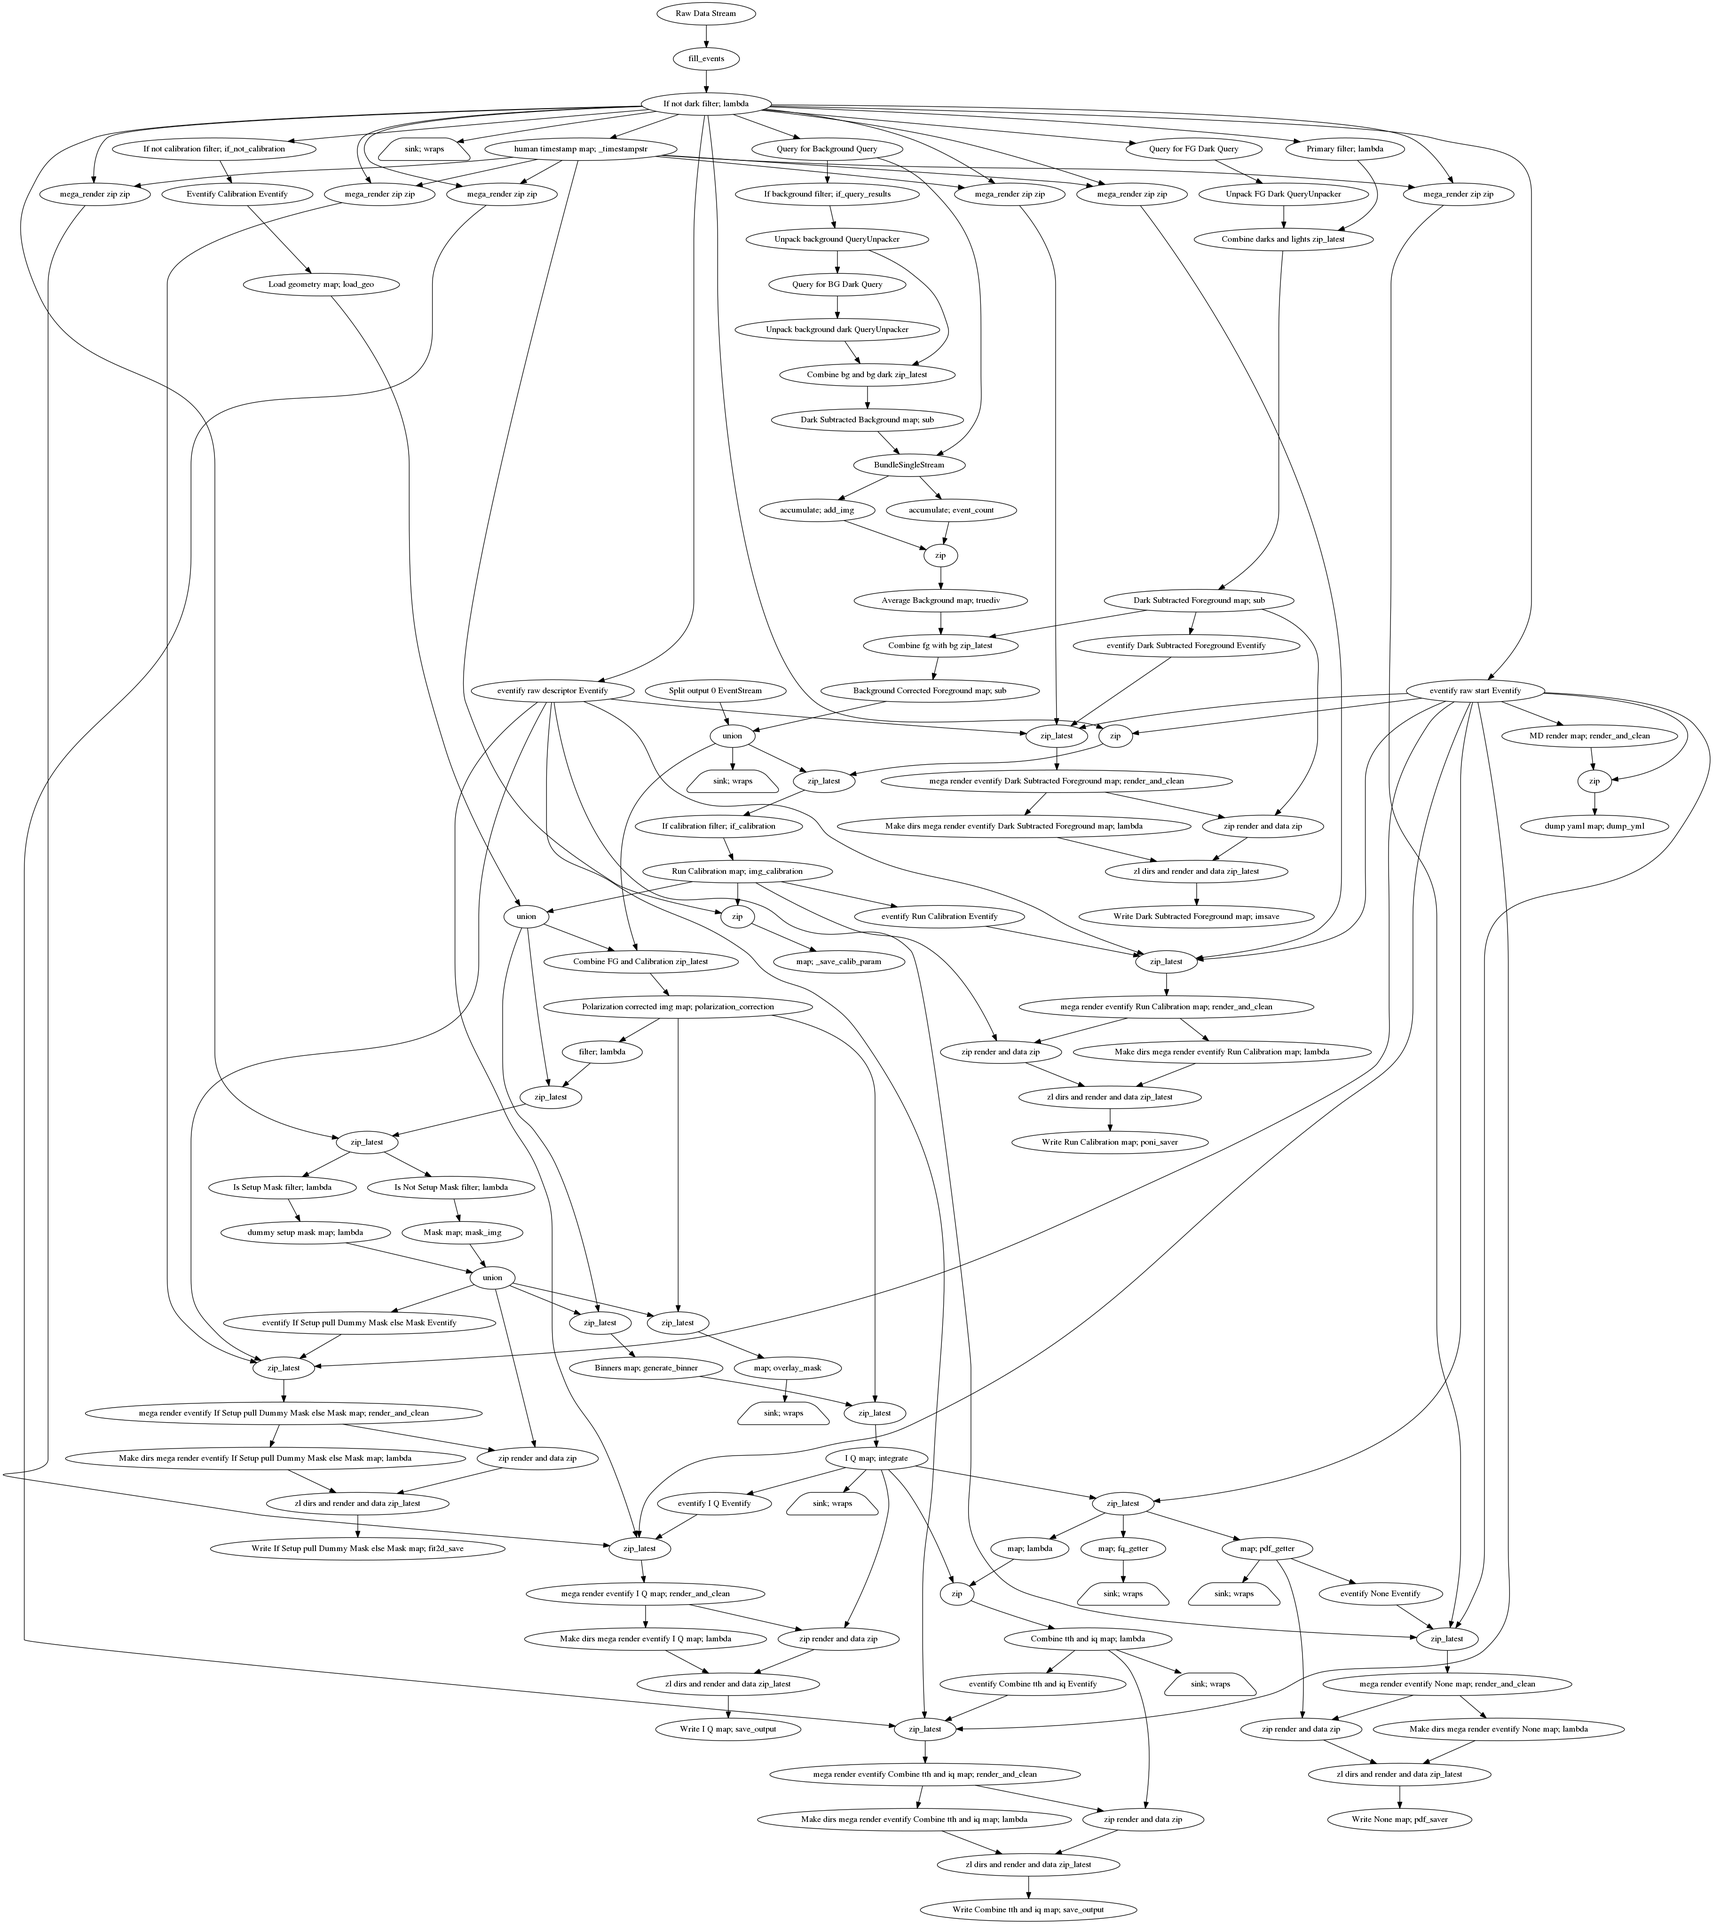
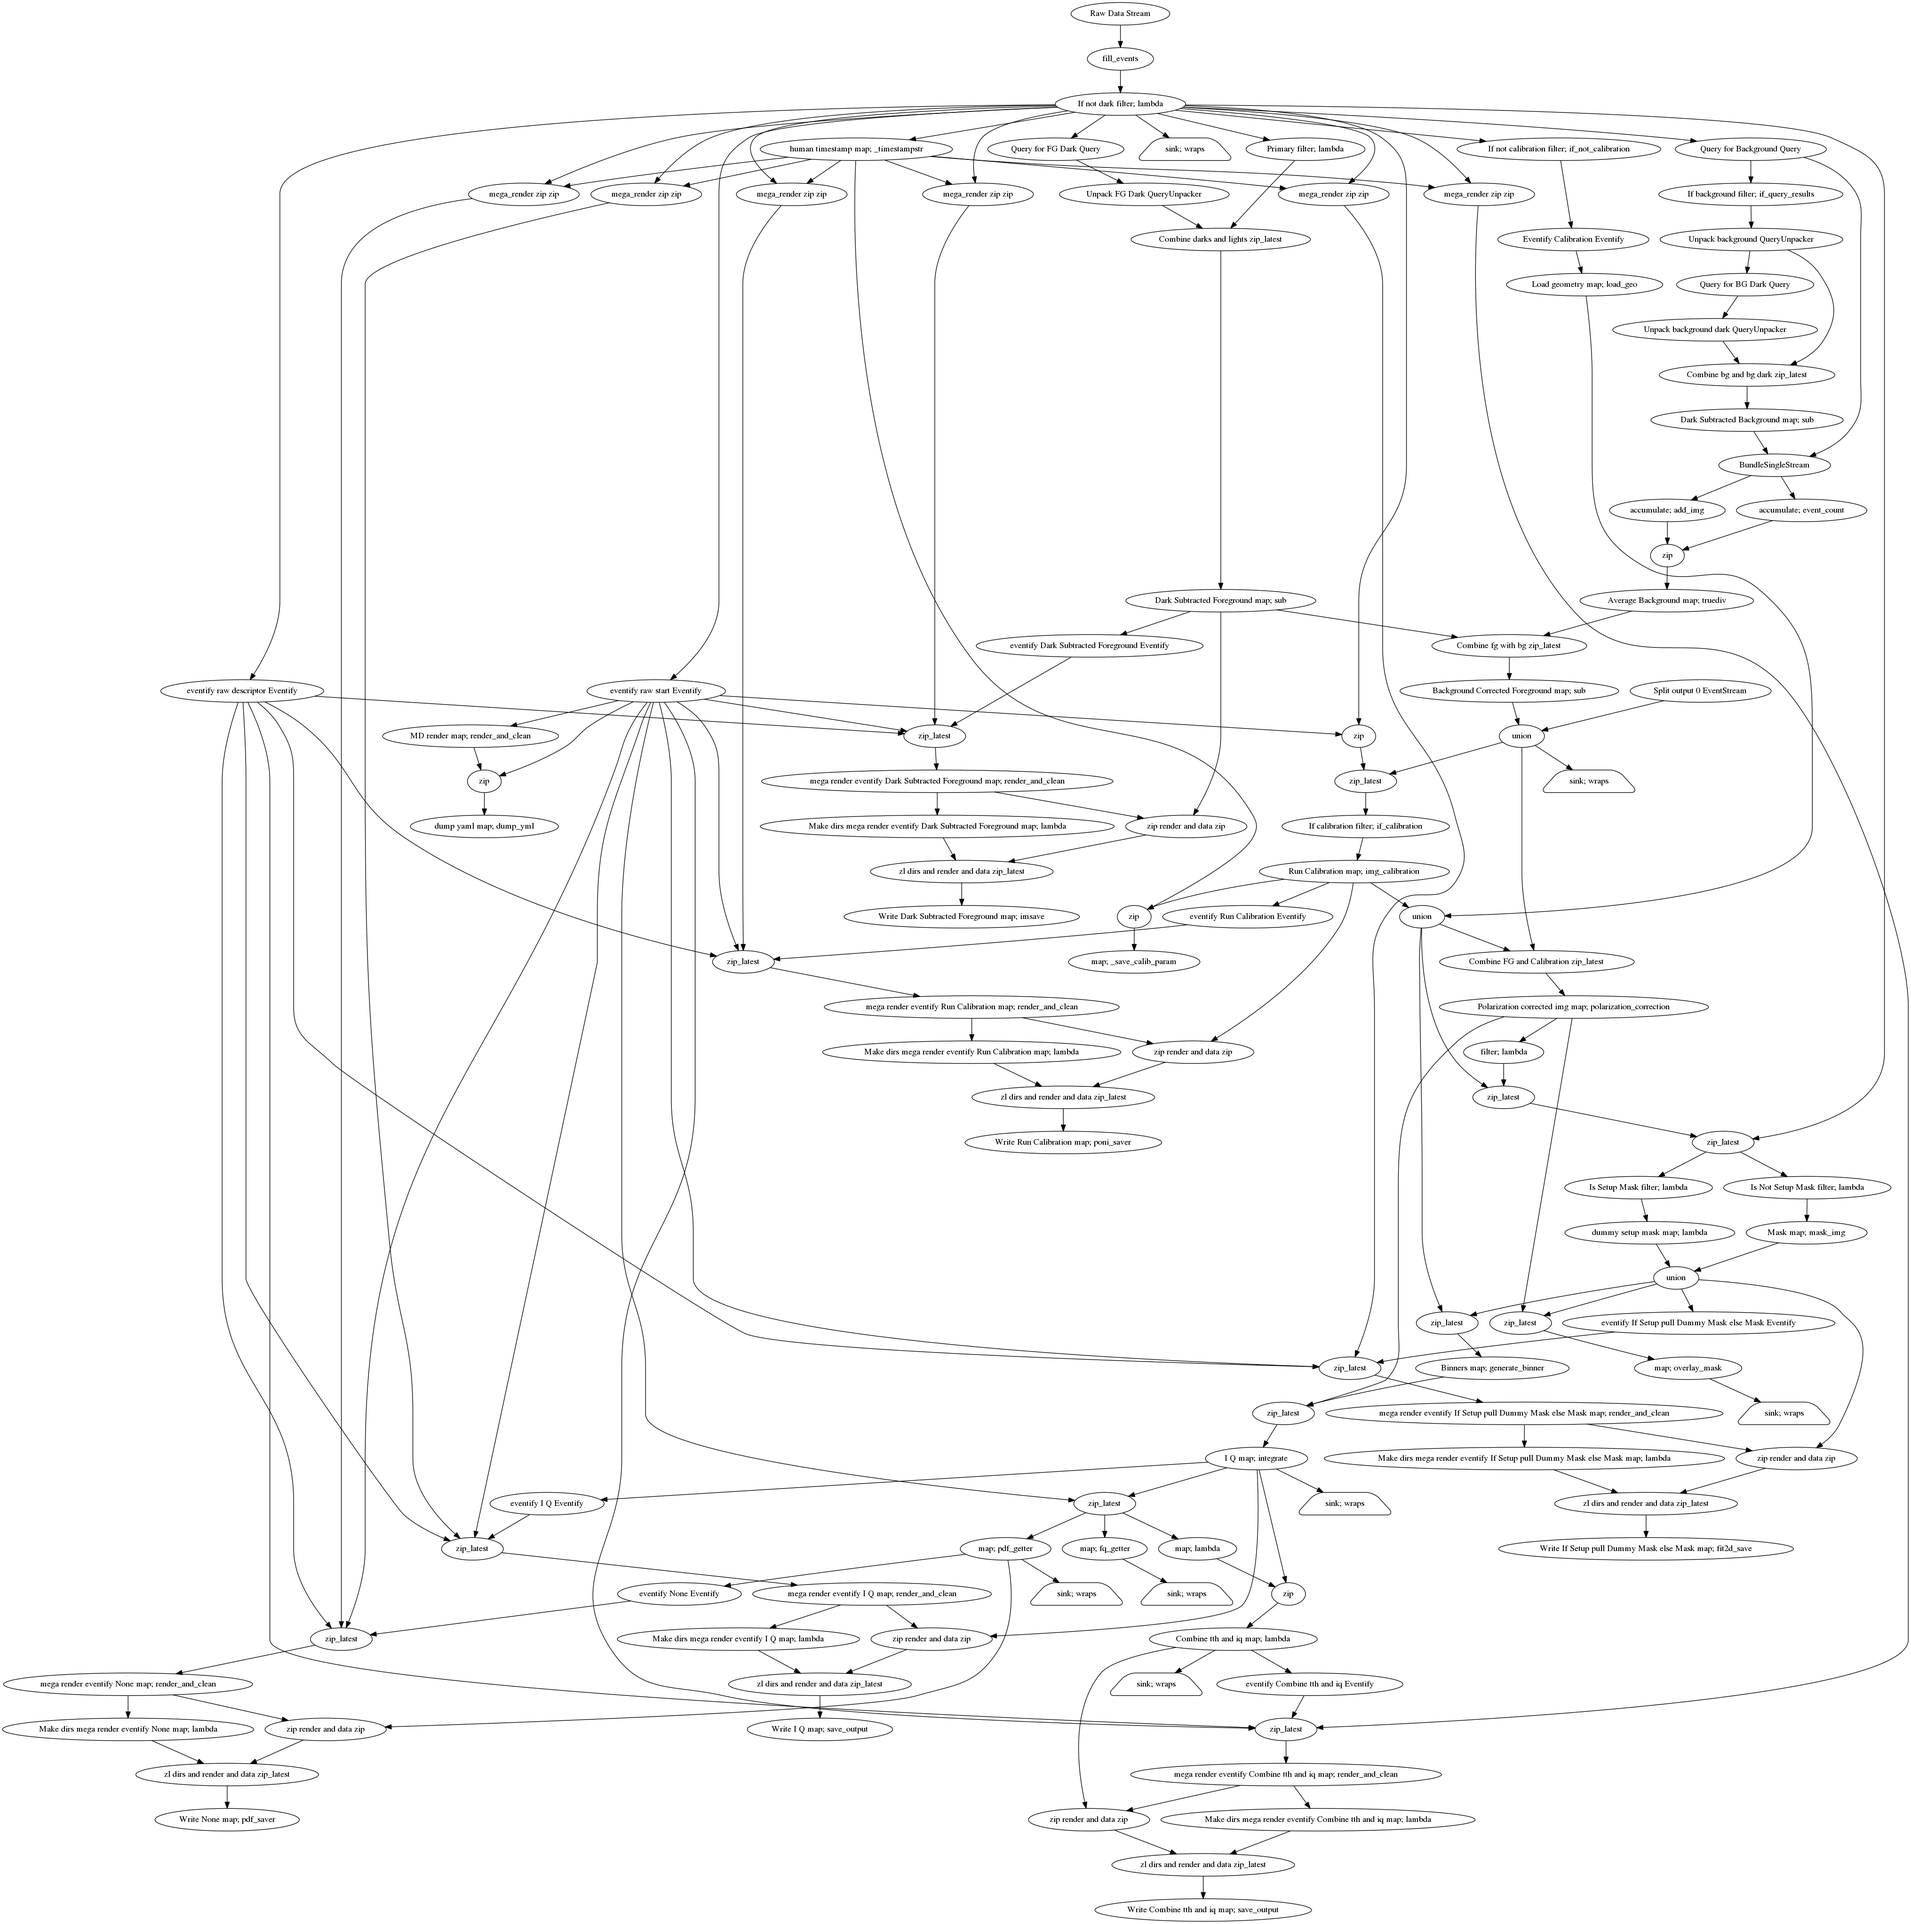
FIX: don't use clear logic

diff --git a/xpdan/pipelines/main.py b/xpdan/pipelines/main.py
@@ -37,7 +37,6 @@ def conf_main_pipeline(db, save_dir, *, write_to_disk=False, vis=True,
                        mask_setting='default',
                        mask_kwargs=None,
                        pdf_config=None,
-                       verbose=False,
                        calibration_md_folder='../xpdConfig/'
                        ):
     """Total data processing pipeline for XPD
@@ -70,9 +69,6 @@ def conf_main_pipeline(db, save_dir, *, write_to_disk=False, vis=True,
     pdf_config: dict, optional
         Configuration for making PDFs, see pdfgetx3 docs. Defaults to
         ``dict(dataformat='QA', qmaxinst=28, qmax=22)``
-    verbose: bool, optional
-        If True print many outcomes from the pipeline, for debuging use
-        only, defaults to False
     calibration_md_folder: str
         Path to where the calibration is stored for xpdAcq
 
@@ -232,7 +228,7 @@ def conf_main_pipeline(db, save_dir, *, write_to_disk=False, vis=True,
 
     # if calibration send to calibration runner
     zlfi = es.zip_latest(foreground_stream, es.zip(
-        if_not_dark_stream, eventify_raw_start), clear_on_lossless_stop=True)
+        if_not_dark_stream, eventify_raw_start))
     if_calibration_stream = es.filter(if_calibration,
                                       zlfi,
                                       input_info={0: ((), 1)},
@@ -305,7 +301,7 @@ def conf_main_pipeline(db, save_dir, *, write_to_disk=False, vis=True,
     # SPLIT INTO TWO NODES
     zlfl = es.zip_latest(foreground_stream, loaded_calibration_stream,
                          stream_name='Combine FG and Calibration',
-                         clear_on_lossless_stop=True)
+                         )
     p_corrected_stream = es.map(polarization_correction,
                                 zlfl,
                                 input_info={'img': ('img', 0),
@@ -321,7 +317,7 @@ def conf_main_pipeline(db, save_dir, *, write_to_disk=False, vis=True,
                                        input_info={0: 'seq_num'},
                                        full_event=True),
                              loaded_calibration_stream,
-                             clear_on_lossless_stop=True)
+                             )
         mask_stream = es.map(lambda x: np.ones(x.shape, dtype=bool),
                              zlfc,
                              input_info={'x': ('img', 0)},
@@ -339,13 +335,13 @@ def conf_main_pipeline(db, save_dir, *, write_to_disk=False, vis=True,
                                            input_info={0: 'seq_num'},
                                            full_event=True),
                                  loaded_calibration_stream,
-                                 clear_on_lossless_stop=True)
+                                 )
         else:
             zlfc = es.zip_latest(p_corrected_stream, loaded_calibration_stream,
-                                 clear_on_lossless_stop=True)
+                                 )
 
         zlfc_ds = es.zip_latest(zlfc, if_not_dark_stream,
-                                clear_on_lossless_stop=True)
+                                )
         if_setup_stream = es.filter(
             lambda sn: sn == 'Setup',
             zlfc_ds,
@@ -385,9 +381,10 @@ def conf_main_pipeline(db, save_dir, *, write_to_disk=False, vis=True,
 
         mask_stream = not_setup_mask_stream.union(blank_mask_stream)
         mask_stream.stream_name = 'If Setup pull Dummy Mask, else Mask'
+
     # generate binner stream
     zlmc = es.zip_latest(mask_stream, loaded_calibration_stream,
-                         clear_on_lossless_stop=True)
+                         )
 
     binner_stream = es.map(generate_binner,
                            zlmc,
@@ -398,7 +395,7 @@ def conf_main_pipeline(db, save_dir, *, write_to_disk=False, vis=True,
                            img_shape=(2048, 2048),
                            stream_name='Binners')
     zlpb = es.zip_latest(p_corrected_stream, binner_stream,
-                         clear_on_lossless_stop=True)
+                         )
 
     iq_stream = es.map(integrate,
                        zlpb,
@@ -450,13 +447,15 @@ def conf_main_pipeline(db, save_dir, *, write_to_disk=False, vis=True,
                         output_info=[('r', {'dtype': 'array'}),
                                      ('pdf', {'dtype': 'array'}),
                                      ('config', {'dtype': 'dict'})],
-                        **pdf_config,
-                        md=dict(analysis_stage='pdf'))
+                        md=dict(analysis_stage='pdf'),
+                        **pdf_config
+                        )
+    pdf_stream.sink(pprint)
     if vis:
         foreground_stream.sink(star(LiveImage(
             'img', window_title='Dark Subtracted Image', cmap='viridis')))
         zlpm = es.zip_latest(p_corrected_stream, mask_stream,
-                             clear_on_lossless_stop=True)
+                             )
         masked_img = es.map(overlay_mask,
                             zlpm,
                             input_info={'img': (('data', 'img'), 0),
@@ -592,39 +591,11 @@ def conf_main_pipeline(db, save_dir, *, write_to_disk=False, vis=True,
                                   1: (('data',), 0)},
                       full_event=True,
                       stream_name='dump yaml'))
-    if verbose:
-        # if_calibration_stream.sink(pprint)
-        # dark_sub_fg.sink(pprint)
-        # eventify_raw_start.sink(pprint)
-        # raw_source.sink(pprint)
-        # if_not_dark_stream.sink(pprint)
-        # zlid.sink(pprint)
-        # dark_sub_fg.sink(pprint)
-        # bg_query_stream.sink(pprint)
-        # if_not_calibration_stream.sink(pprint)
-        # if_not_background_stream.sink(pprint)
-        # if_background_stream.sink(pprint)
-        # fg_sub_bg.sink(pprint)
-        # if_not_background_split_stream.split_streams[0].sink(pprint)
-        # cal_md_stream.sink(pprint)
-        # loaded_calibration_stream.sink(pprint)
-        # if_not_dark_stream.sink(pprint)
-        # foreground_stream.sink(pprint)
-        # zlfl.sink(pprint)
-        # p_corrected_stream.sink(pprint)
-        # zlmc.sink(pprint)
-        # binner_stream.sink(pprint)
-        # zlpb.sink(pprint)
-        # iq_stream.sink(pprint)
-        # pdf_stream.sink(pprint)
-        # mask_stream.sink(pprint)
-        if write_to_disk:
-            md_render.sink(pprint)
-            [es.zip(cs,
-                    streams_to_be_s, zip_type='truncate',
-                    stream_name='zip_print'
-                    ).sink(star(PrinterCallback())
-                           ) for cs, streams_to_be_s in zip(
-                mega_render, streams_to_be_saved)]
+        [es.zip(cs,
+                streams_to_be_s, zip_type='truncate',
+                stream_name='zip_print'
+                ).sink(star(PrinterCallback())
+                       ) for cs, streams_to_be_s in zip(
+            mega_render, streams_to_be_saved)]
     print('Finish pipeline configuration')
     return raw_source

diff --git a/xpdan/tests/test_main_pipeline.py b/xpdan/tests/test_main_pipeline.py
@@ -10,10 +10,9 @@ def test_main_pipeline(exp_db, fast_tmp_dir, start_uid3):
     source = conf_main_pipeline(exp_db, fast_tmp_dir,
                                 vis=True,
                                 write_to_disk=True,
-                                mask_setting=None,
-                                verbose=True)
-    # source.visualize('/home/christopher/dev/xpdAn/examples/mystream.png')
+                                mask_setting=None)
     t0 = time.time()
+
     for nd in exp_db[-1].documents(fill=True):
         source.emit(nd)
     t1 = time.time()

diff --git a/scripts/disp.py b/scripts/disp.py
@@ -30,7 +30,6 @@ td = TemporaryDirectory()
 source = conf_main_pipeline(db, td.name,
                             # vis=False,
                             write_to_disk=False,
-                            verbose=True,
                             # mask_setting=None
                             )
 
